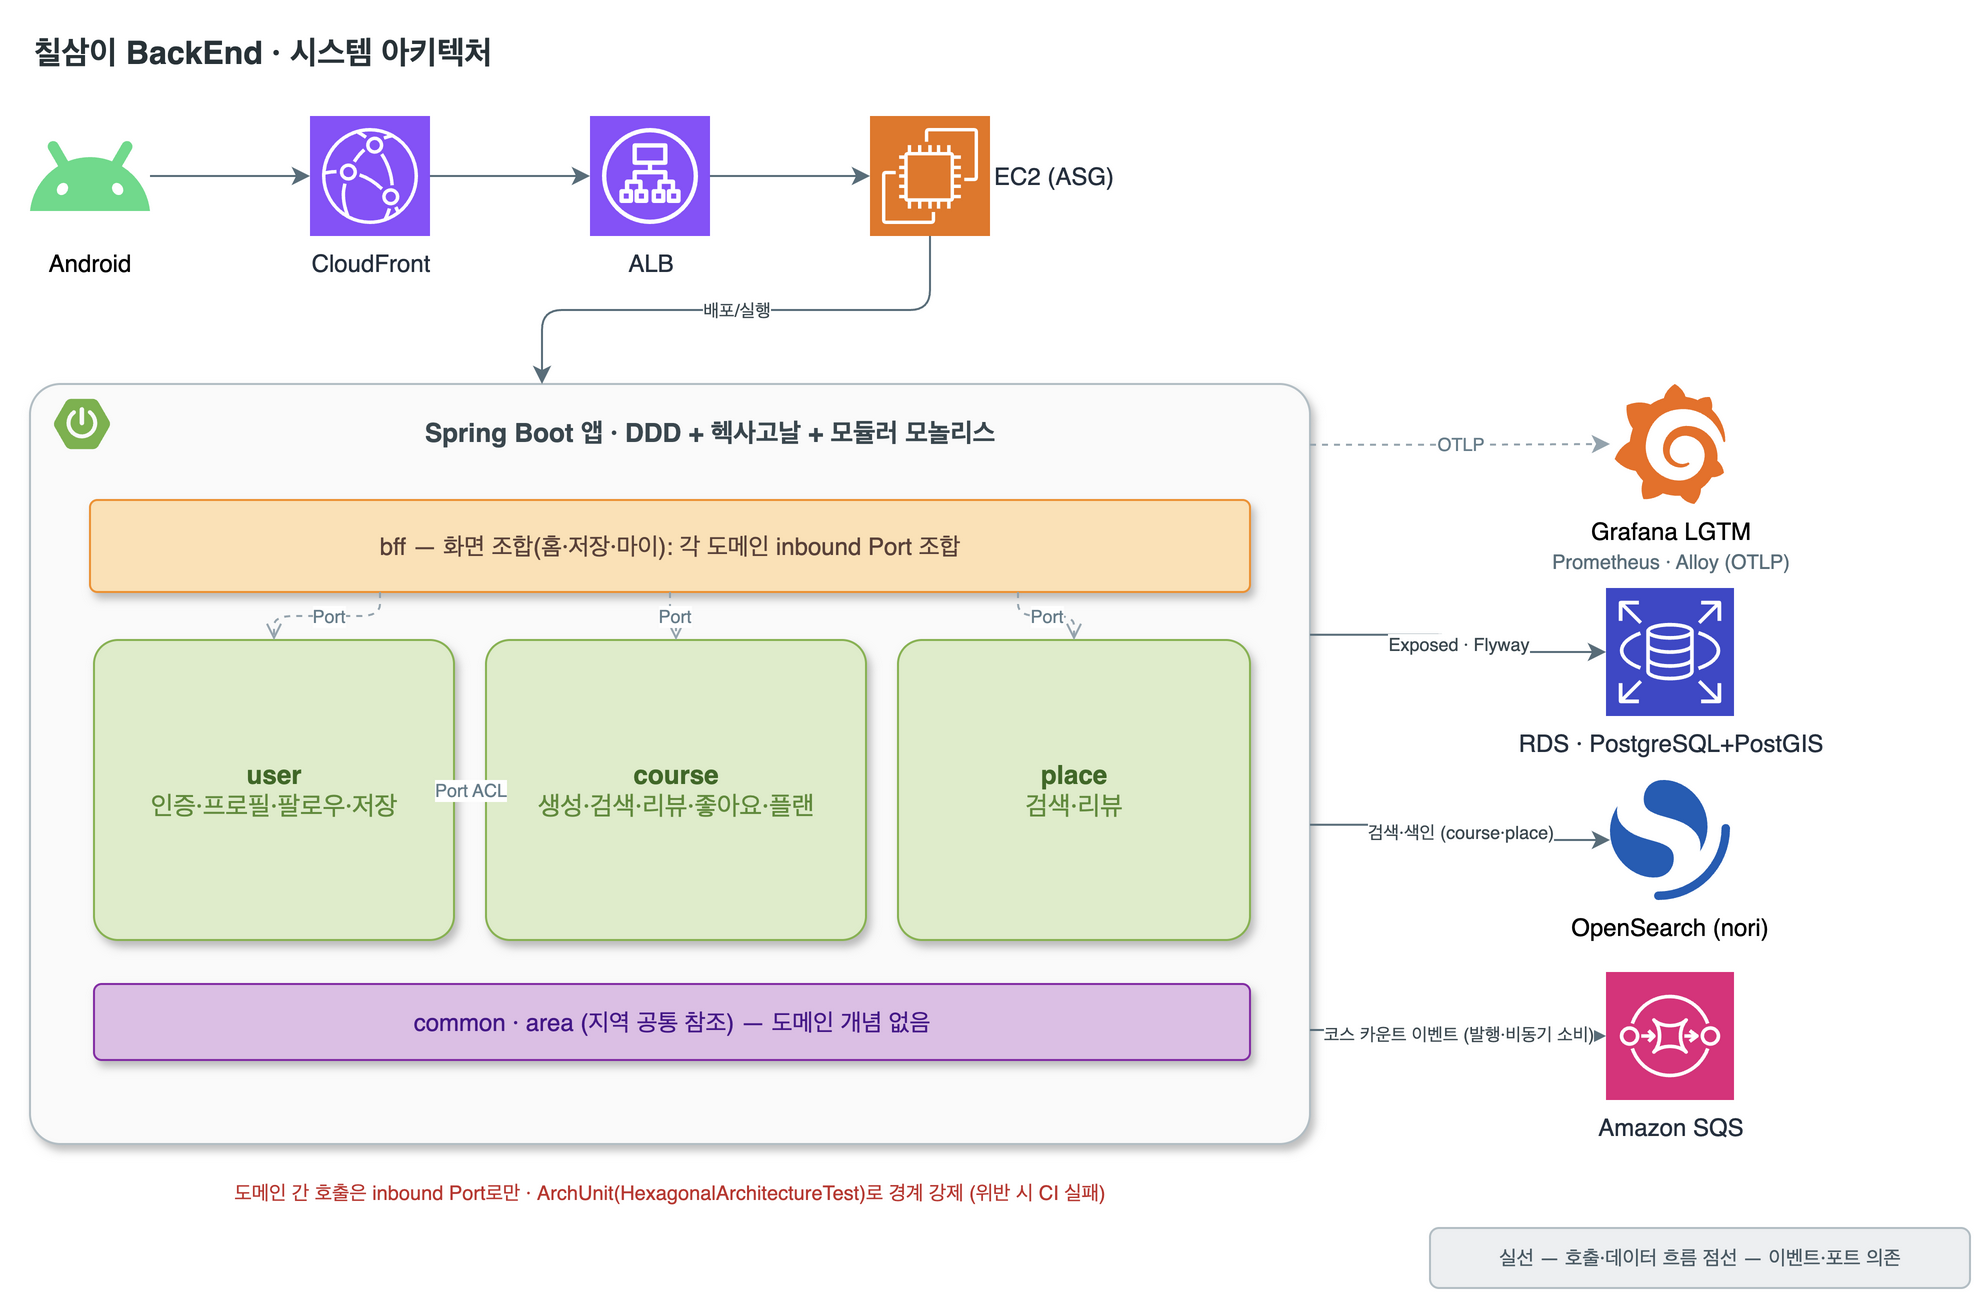
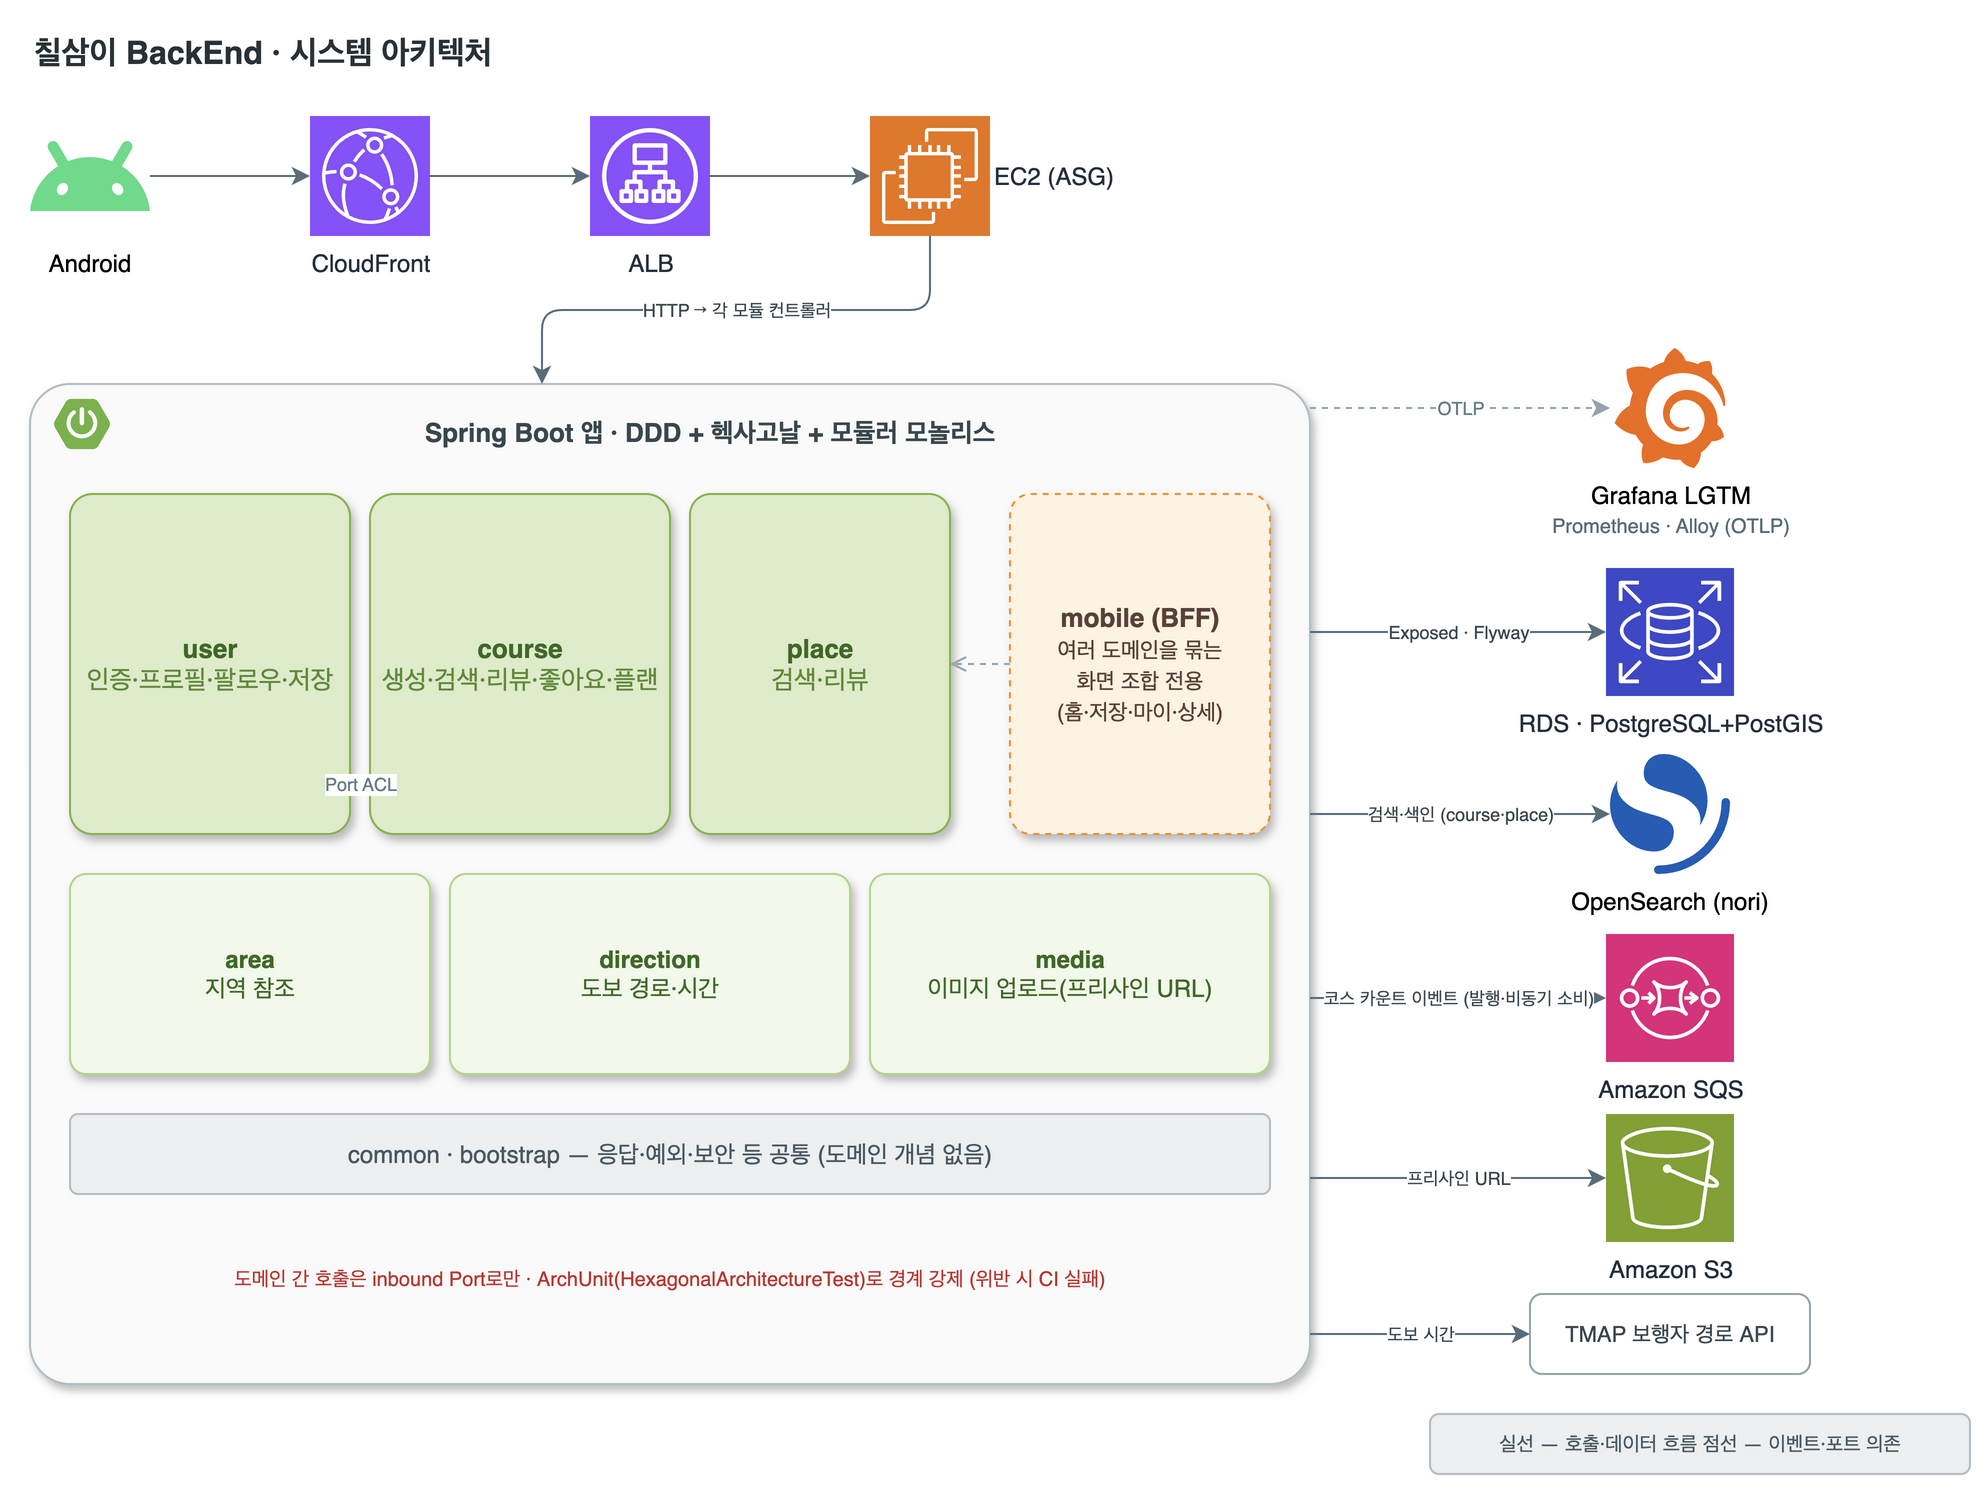
docs: 아키텍처 다이어그램에서 BFF를 조합 전용으로 분리하고 보조 모듈·S3·TMAP 반영 (SCRUM-557)

diff --git a/README.md b/README.md
@@ -101,7 +101,7 @@ feat/* ─▶ develop ─▶ main
 ```text
 com.example.backend
 ├─ bootstrap/                 # 조립 루트: 앱 진입점, config(Security/OpenAPI), 전역 예외핸들러
-├─ common/                    # 도메인 무관 기술 공통(response/util 등) + area(지역 공통 참조 타입). 도메인 개념 금지.
+├─ common/                    # 도메인 무관 기술 공통(response/exception/geo 등). 도메인 개념 금지.
 ├─ user/                      # 도메인(= bounded context). 각 도메인 내부를 헥사고날로 구성.
 │  ├─ domain/model/           # 순수 도메인 (Spring·Exposed 의존 X). 애그리거트·불변식.
 │  ├─ application/
@@ -114,7 +114,10 @@ com.example.backend
 │     └─ outbound/persistence/ # Exposed 테이블 + 포트 구현체(도메인↔행 매핑)
 ├─ place/                     # 도메인. 장소 검색(OpenSearch)·리뷰. 장소 리뷰 테이블도 이 도메인 persistence 에.
 ├─ course/                    # 도메인. 코스 생성·검색·리뷰·좋아요·플랜. 코스 리뷰 테이블도 이 도메인 persistence 에.
-└─ bff/                       # 화면 조합(BFF): 여러 도메인의 inbound 포트를 조합하는 화면(홈/저장/마이 등)만 모음
+├─ area/                      # 지역 참조(여러 도메인이 공유)
+├─ direction/                 # 도보 경로·시간 (TMAP 보행자 API)
+├─ media/                     # 이미지 업로드용 S3 프리사인 URL 발급
+└─ mobile/                    # 화면 조합(BFF): 여러 도메인의 inbound 포트를 조합하는 화면(홈/저장/마이/상세 등)만 모음
 ```
 
 각 도메인 내부는 헥사고날(ports & adapters)로 구성한다 — 컨트롤러(inbound 어댑터)가 inbound 포트(UseCase)를 호출하고, 서비스가 이를 구현하며, 도메인 모델과 outbound 포트(PersistencePort·AccessPort)를 통해 어댑터·다른 도메인과 소통한다.
@@ -123,16 +126,17 @@ com.example.backend
 
 도메인은 user/place/course 3개이며 각 도메인 내부는 헥사고날로 구성한다.
 리뷰는 별도 도메인이 아니라 대상 도메인에 속한다 — 장소 리뷰(place_reviews 등)는 `place`, 코스 리뷰(course_reviews 등)는 `course` 의 `adapter/outbound/persistence/` 에 둔다.
-**BFF는 화면별로 쪼개지 않고 단일 `bff` 패키지 하나**로 모은다 — 여러 도메인을 조합해야 하는 화면(홈·저장·마이 등)의 컨트롤러+조합서비스만 두고, 도메인의 `application.port.inbound`만 호출한다(테이블·도메인 로직 없음). 단일 도메인으로 끝나는 화면(지도=place 등)은 BFF가 아니라 해당 도메인에 둔다.
-user/place/course 세 도메인과 bff 모두 실제 기능이 구현돼 있으며, 같은 헥사고날 구조를 공유한다.
-`area`(지역)는 팀 결정에 따라 특정 도메인이 아니라 `common/area` 에 두고 여러 도메인이 공유 참조한다.
+**BFF는 `mobile` 패키지 하나**에 모은다(하위는 `mobile/home`, `mobile/course` 등 화면 묶음) — 여러 도메인을 조합해야 하는 화면(홈·저장·마이 등)의 컨트롤러+조합서비스만 두고, 도메인의 `application.port.inbound`만 호출한다(테이블·도메인 로직 없음). 단일 도메인으로 끝나는 화면(지도=place 등)은 BFF가 아니라 해당 도메인에 둔다.
+user/place/course 세 도메인과 mobile 모두 실제 기능이 구현돼 있으며, 같은 헥사고날 구조를 공유한다.
+API 요청은 BFF를 거치지 않고 각 모듈의 컨트롤러로 바로 들어온다. `mobile`은 여러 도메인을 묶어야 하는 화면 API만 맡는다.
+`area`(지역), `direction`(도보 경로), `media`(업로드)는 특정 도메인에 속하지 않는 보조 모듈로 따로 둔다.
 
 도메인 간 연동 예: 코스 변경은 **SQS** 로 작성자 공개범위별 코스 수 집계를 비동기 처리하고, 코스·장소 변경은 **OpenSearch** 색인을 이벤트로 갱신한다. 좋아요/저장 등 카운터는 course 도메인이 소유하고 다른 도메인은 inbound Port(ACL)로만 갱신한다.
 
 **의존 규칙** (adapter → application → domain 한 방향):
 - 도메인·애플리케이션은 어댑터(웹·DB)를 모르고 포트(인터페이스)로만 소통 → 도메인은 프레임워크 없이 단위 테스트 가능(`UserTest`).
 - **도메인 간 호출은 Port로만**: 한 도메인은 상대 도메인의 `application.port.inbound`(공개 API)만 참조하고, 조회는 `adapter/outbound/<도메인>`의 내부 어댑터가 상대 inbound 포트를 호출한다. 알림은 도메인 이벤트. MSA 확장 시 이 어댑터만 원격 호출로 교체.
-- **BFF 예외**: `bff`(홈·저장·마이 등 화면 조합)는 화면단위 조합을 위해 도메인의 inbound 포트에 의존할 수 있다.
+- **BFF 예외**: `mobile`(홈·저장·마이 등 화면 조합)은 화면단위 조합을 위해 도메인의 inbound 포트에 의존할 수 있다.
 - **DB 규율**: 크로스 도메인 FK·JOIN 금지, 트랜잭션 경계는 도메인 안에서만.
 
 **경계 강제**: 위 규칙을 **ArchUnit 테스트**(`HexagonalArchitectureTest`)로 검증한다 — 위반 시 CI 실패. 크로스 도메인 격리·common→도메인 비참조 규칙 포함.
